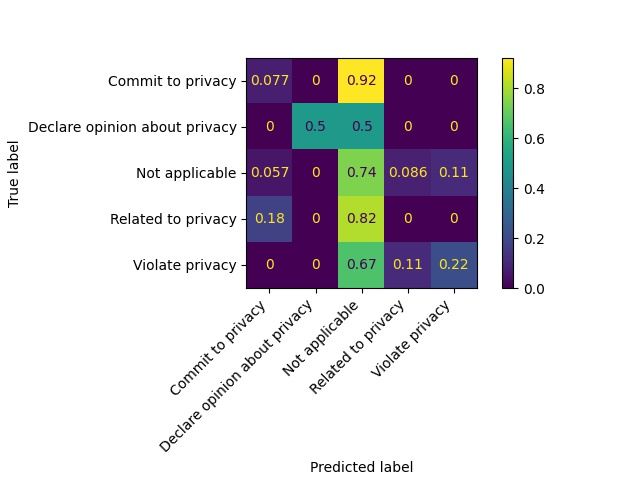
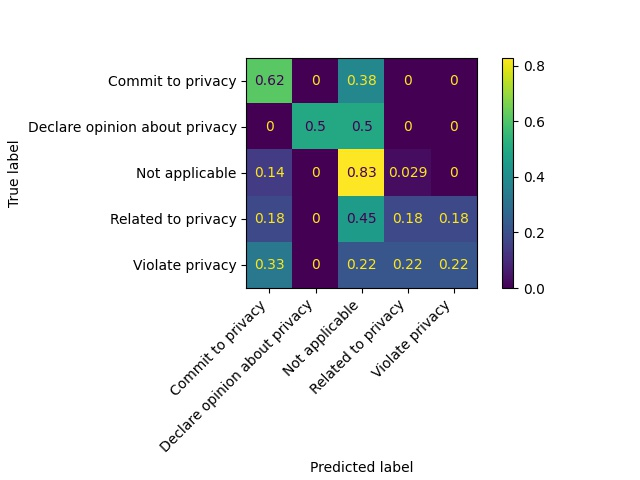
AI Classifier configuration + performance considering word representation value as 1 insetad of weighted frequency in the sentence

diff --git a/AIclassifier.py b/AIclassifier.py
@@ -28,22 +28,14 @@ def create_labels_array(labels_list):
 
 # Create sparse matrixes that represent words present in each sentence, which is the appropriate format to feed the AI classifier
 def format_sentVector_to_SparseMatrix(vectors_list):
-    #print(vectors_list)
     for i, sent_vector in enumerate(vectors_list): 
         sparse_vector = [0] * len(words_to_numbers) # vocabulary size cause each word present is a feature
         counts = Counter(sent_vector)
         for index, freq in counts.items():
-            sparse_vector[index] = freq/len(sent_vector)
-        # print(sent_vector)
-        # for index in sent_vector:
-        #     print(index)
-        #     auxList = sent_vector.tolist()
-        #     freq = auxList.count(index)
-        #     sparse_vector[index] = freq/len(sent_vector) # 1 # LATER TEST AND DOCUMENT PERFORMANCE IN WEIGHTED AND SIMPLE 1
+            sparse_vector[index] = 1 # freq/len(sent_vector) # DIFFERENT CONFIGURATION POSSIBILITIES
         if (i == 0): # TO DO: OPTIMIZE, NO NEED TO CHECK THIS EVERY TURN
             matrix_array = [sparse_vector]
         else:
-            #matrix_array = numpy.concatenate((matrix_array, [sparse_vector]), axis=0)
             matrix_array.append(sparse_vector)
     matrix_array = numpy.asarray(matrix_array)
     return matrix_array
